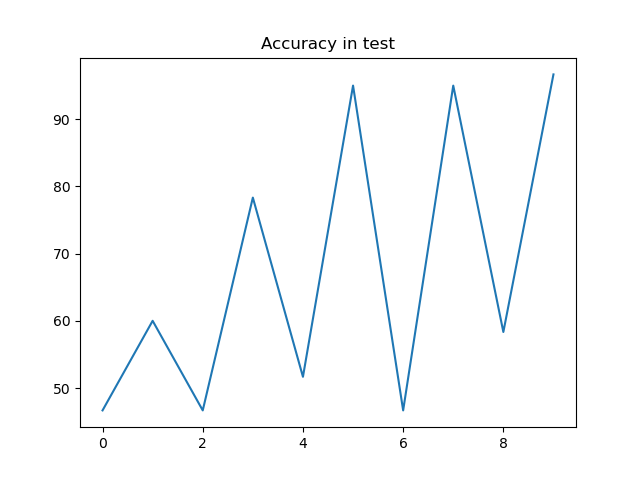
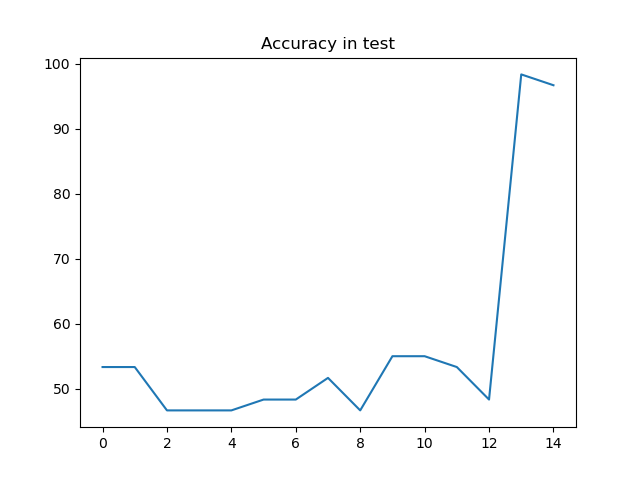
update train

diff --git a/src/train.py b/src/train.py
@@ -61,18 +61,13 @@ train_jitter = DatasetFromSubset(
     transform=Compose([ColorJitter(brightness=.3, hue=.3), Normalize(mean=dataset_mean, std=dataset_std)])
 )
 
-blur_subset = Subset(dataset, train_subset.indices)
-train_blur = DatasetFromSubset(
-    subset=blur_subset,
-    transform=Compose([GaussianBlur(kernel_size=(5, 9), sigma=(0.3, 1.5)), Normalize(mean=dataset_mean, std=dataset_std)])
-)
+train_dataset = ConcatDataset([train_dataset, train_jitter])
 
-# plot_img(train_dataset[0][0], dataset.classes[train_dataset[0][1]])
-# plot_img(train_jitter[30][0], dataset.classes[train_jitter[30][1]])
-# plot_img(train_blur[60][0], dataset.classes[train_blur[60][1]])
-# plot_img(test_dataset[25][0], dataset.classes[test_dataset[25][1]])
+for s_dataset in [train_dataset, test_dataset]:
+    labels = [label for image, label in s_dataset]
 
-train_dataset = ConcatDataset([train_dataset, train_jitter, train_blur])
+    print(f"Class: {dataset.classes[0]} | Count: {labels.count(0)}")
+    print(f"Class: {dataset.classes[1]} | Count: {labels.count(1)}")
 
 train_loader = DataLoader(train_dataset,
                         batch_size=32,
@@ -82,4 +77,4 @@ test_loader = DataLoader(test_dataset,
                         shuffle=False)
 
 model = AlexNet()
-model.fit(train_loader=train_loader, test_loader=test_loader, epochs=10, lr=1e-3, debug=True)
+model.fit(train_loader=train_loader, test_loader=test_loader, epochs=15, lr=1e-3, debug=True)
